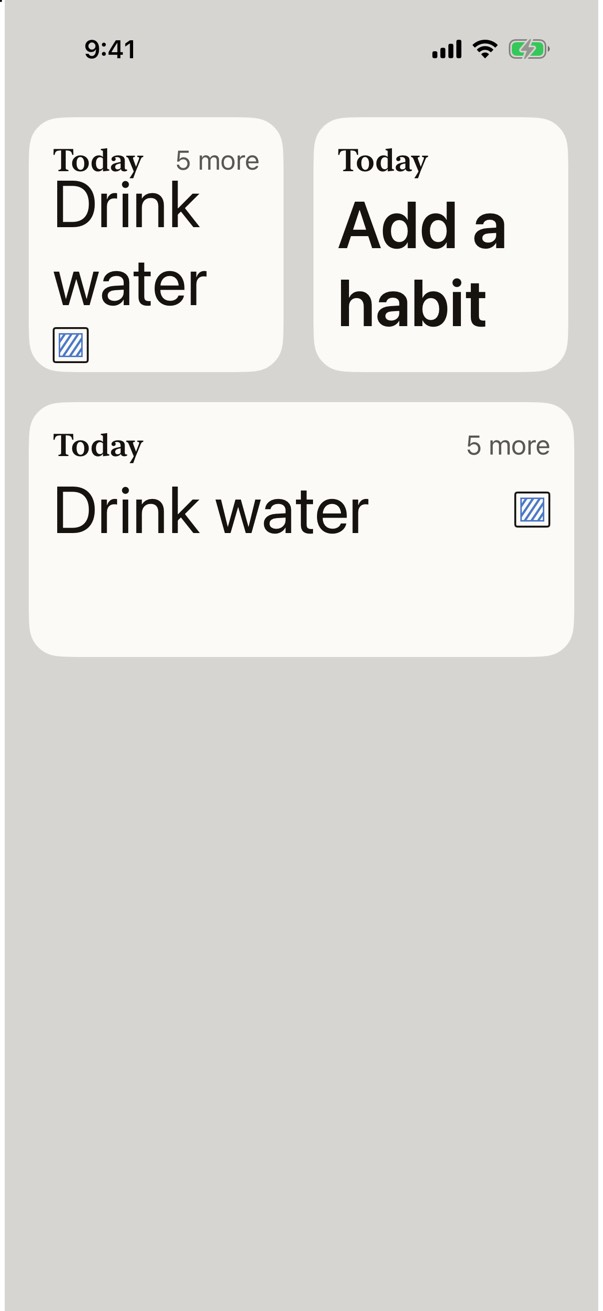
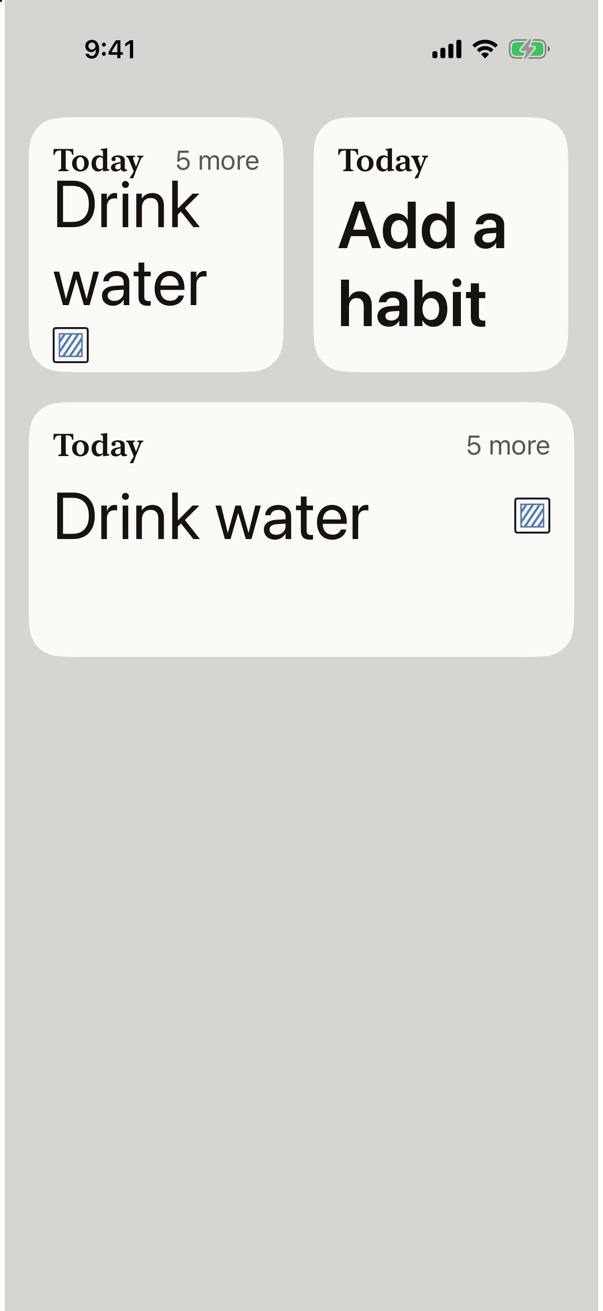
Widen the widget's header gap at accessibility sizes; let Add a habit wrap
From the typographer, round two. The small widget's gap is gated on a
device.

Changed region(s): [[0.3582, 0.3661, 0.6269, 0.4272], [0.0896, 0.3661, 0.3284, 0.4272], [0.8657, 0.3661, 0.9254, 0.4272]]

diff --git a/Shared/WidgetViews.swift b/Shared/WidgetViews.swift
@@ -79,7 +79,8 @@ struct TodayWidgetView: View {
     private func layout(room: Int, _ style: ResolvedStyle) -> some View {
         let all = entry.snapshot.rows.count
         let hidden = all - shownCount(of: all, room: room)
-        return VStack(alignment: .leading, spacing: 4) {
+        // At accessibility sizes a tall first letter of the name would touch the header's baseline.
+        return VStack(alignment: .leading, spacing: typeSize.isAccessibilitySize ? 8 : 4) {
             header(style, hidden: hidden)
             // Habit names can be health details. On a locked device, in StandBy and on the lock screen,
             // the system redacts the rows. The "Today" header stays.
@@ -140,6 +141,7 @@ struct TodayWidgetView: View {
                         Text("Nothing to track yet.").font(style.label(.footnote)).foregroundStyle(quiet)
                     }
                     Text("Add a habit").font(style.label(.footnote, weight: .semibold)).foregroundStyle(style.text)
+                        .fixedSize(horizontal: false, vertical: true)
                 }
                 .frame(minHeight: 44, alignment: .leading)
                 .contentShape(Rectangle())

diff --git a/docs/findings.md b/docs/findings.md
@@ -66,6 +66,7 @@ Status is one of: owed (with the milestone), gate (a test that must pass), guess
 | 13 | The widget catalog holds only the two plural entries. Its other strings are not yet extracted for translation | Typographer, 18 Nov. `Widget/Localizable.xcstrings` |
 | 3, owner's Mac | Command-E opens Edit habit with Today focused and with text selected in a sheet; the Habits menu and the Settings window on Pause for dates. If Command-E is taken, use Option-Command-E | Industrial designer, 18 Nov. `App/HabitApp.swift` |
 | 3, owner's device | The medium widget at AX5 on a Home Screen shows two rows when both names fit on one line each. The debug board shows one; `ViewThatFits` falls back to one when two do not fit, so nothing clips either way | Industrial designer, round two, 18 Nov. `ax5-widget-paper.jpg`, `TodayWidgetView.rooms` |
+| 3, owner's device | The widget's header gap is 8 points at accessibility sizes. On the debug board the small widget's two-line name still sits close under "Today", likely because the board's small frame is shorter than a Home Screen's; letting the name scale cut it, so that was reverted. Check the gap on a Home Screen at AX5 with a name starting with a capital. Made after the typographer's second round; no lens has seen it | Typographer, 18 Nov. `ax5-widget-paper.jpg` |
 | 13 | History month with many habits has no screenshot | `m2-hist-many.png` is Week only |
 | 4 | Marks in a History row are small beside text at the largest size. If the cells grow, lift the cap on the week header letters (`.dynamicTypeSize(...xxxLarge)` in `HistoryWeekHeader`) | `ax-history.png`, `ax5-history-paper.jpg` |
 | 13 | No screen was checked on a phone smaller than 393 by 852 points | `sheet-ax.png` |
